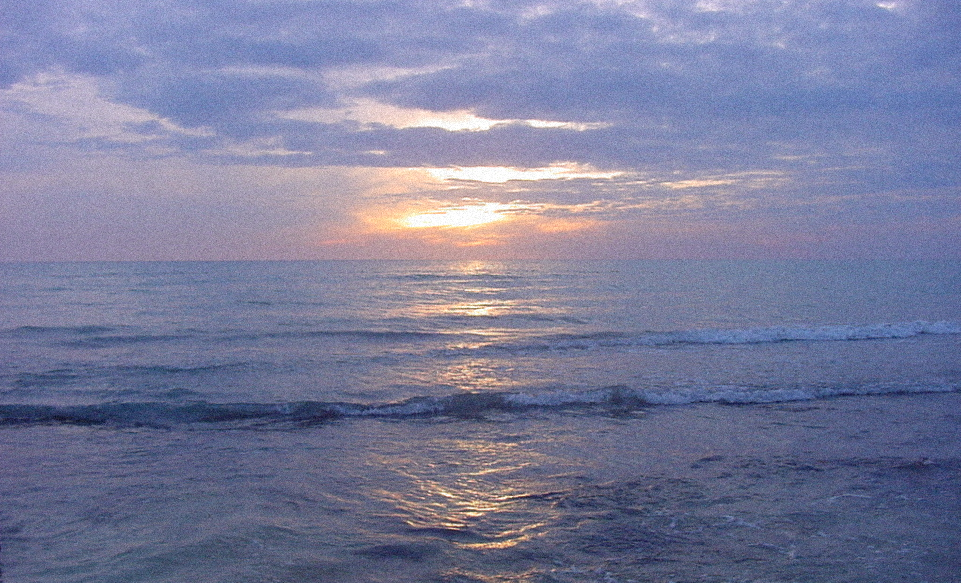
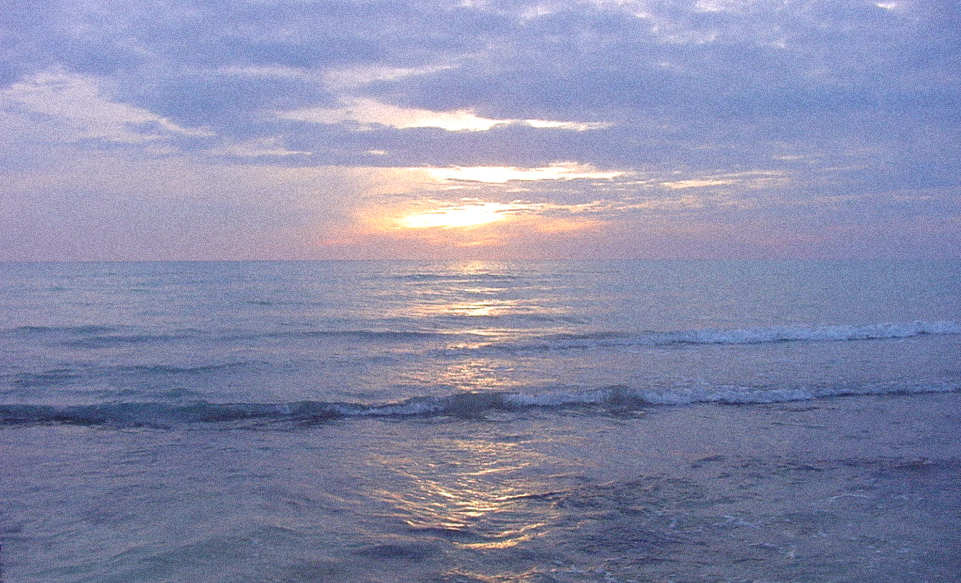
change RNG function

Changed region(s): [[0.0, 0.0, 1.0, 1.0]]

diff --git a/photoeffects/src/filmGrain.cpp b/photoeffects/src/filmGrain.cpp
@@ -1,8 +1,9 @@
 #include <opencv2/core/core.hpp>
 #include <opencv2/core/internal.hpp>
 #include "photoeffects.hpp"
-
+#include <iostream>
 using namespace cv;
+using namespace std;
 class FilmGrainInvoker
 {
 public:
@@ -23,7 +24,7 @@ public:
             uchar* row = (uchar*)srcStripe.row(y).data;
             for (int x = 0; x < height_*3; x+=3)
             {
-                int newValue=(row[x]+rng.gaussian(grainValue_));
+                int newValue=(row[x]+rng(grainValue_));
                 if(newValue<0)
                 {
                     newValue=0;
@@ -77,7 +78,11 @@ int filmGrain(InputArray src, OutputArray dst, int grainValue)
     {
         dst.create(image.size(), image.type());
         Mat dstMat = dst.getMat();
+        cout<<getNumThreads()<<endl;
+        setNumThreads(2);
+        cout<<getNumThreads()<<endl;
         parallel_for(BlockedRange(0, image.rows), FilmGrainInvoker(image, dstMat, grainValue));
     }
     return 0;
+
 }

diff --git a/photoeffects/test/filmGrain_test.cpp b/photoeffects/test/filmGrain_test.cpp
@@ -33,7 +33,7 @@ TEST(photoeffects, FilmGrainRegressionTest)
 
     Mat dst;
     theRNG()=RNG(0);
-    EXPECT_EQ(0, filmGrain(image, dst, 8));
+    EXPECT_EQ(0, filmGrain(image, dst, 30));
 
     Mat diff = abs(rightDst - dst);
     Mat mask = diff.reshape(1) > 1;
